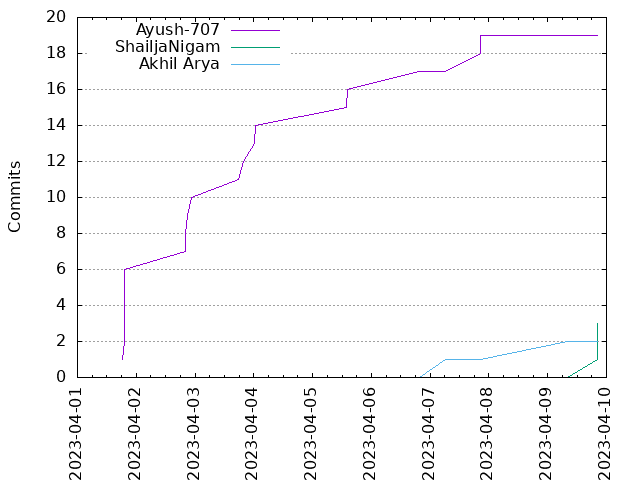
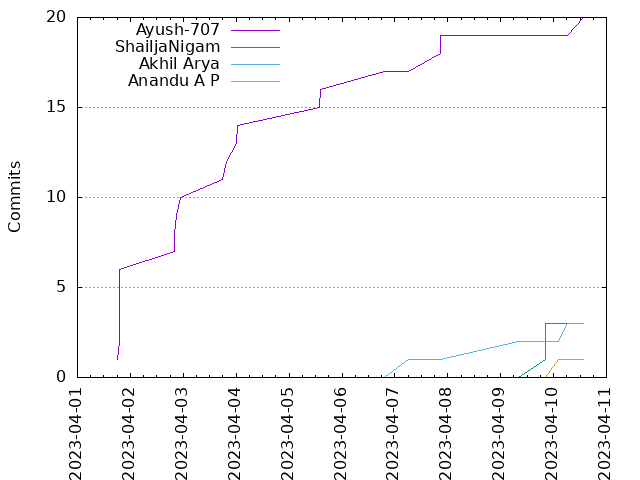
.

diff --git a/report/activity.html b/report/activity.html
@@ -22,27 +22,27 @@
 
 <h2 id="weekly_activity"><a href="#weekly_activity">Weekly activity</a></h2>
 
-<p>Last 32 weeks</p><table class="noborders"><tr><td style="text-align: center; vertical-align: bottom">0<div style="display: block; background-color: red; width: 20px; height: 1px"></div></td><td style="text-align: center; vertical-align: bottom">0<div style="display: block; background-color: red; width: 20px; height: 1px"></div></td><td style="text-align: center; vertical-align: bottom">0<div style="display: block; background-color: red; width: 20px; height: 1px"></div></td><td style="text-align: center; vertical-align: bottom">0<div style="display: block; background-color: red; width: 20px; height: 1px"></div></td><td style="text-align: center; vertical-align: bottom">0<div style="display: block; background-color: red; width: 20px; height: 1px"></div></td><td style="text-align: center; vertical-align: bottom">0<div style="display: block; background-color: red; width: 20px; height: 1px"></div></td><td style="text-align: center; vertical-align: bottom">0<div style="display: block; background-color: red; width: 20px; height: 1px"></div></td><td style="text-align: center; vertical-align: bottom">0<div style="display: block; background-color: red; width: 20px; height: 1px"></div></td><td style="text-align: center; vertical-align: bottom">0<div style="display: block; background-color: red; width: 20px; height: 1px"></div></td><td style="text-align: center; vertical-align: bottom">0<div style="display: block; background-color: red; width: 20px; height: 1px"></div></td><td style="text-align: center; vertical-align: bottom">0<div style="display: block; background-color: red; width: 20px; height: 1px"></div></td><td style="text-align: center; vertical-align: bottom">0<div style="display: block; background-color: red; width: 20px; height: 1px"></div></td><td style="text-align: center; vertical-align: bottom">0<div style="display: block; background-color: red; width: 20px; height: 1px"></div></td><td style="text-align: center; vertical-align: bottom">0<div style="display: block; background-color: red; width: 20px; height: 1px"></div></td><td style="text-align: center; vertical-align: bottom">0<div style="display: block; background-color: red; width: 20px; height: 1px"></div></td><td style="text-align: center; vertical-align: bottom">0<div style="display: block; background-color: red; width: 20px; height: 1px"></div></td><td style="text-align: center; vertical-align: bottom">0<div style="display: block; background-color: red; width: 20px; height: 1px"></div></td><td style="text-align: center; vertical-align: bottom">0<div style="display: block; background-color: red; width: 20px; height: 1px"></div></td><td style="text-align: center; vertical-align: bottom">0<div style="display: block; background-color: red; width: 20px; height: 1px"></div></td><td style="text-align: center; vertical-align: bottom">0<div style="display: block; background-color: red; width: 20px; height: 1px"></div></td><td style="text-align: center; vertical-align: bottom">0<div style="display: block; background-color: red; width: 20px; height: 1px"></div></td><td style="text-align: center; vertical-align: bottom">0<div style="display: block; background-color: red; width: 20px; height: 1px"></div></td><td style="text-align: center; vertical-align: bottom">0<div style="display: block; background-color: red; width: 20px; height: 1px"></div></td><td style="text-align: center; vertical-align: bottom">0<div style="display: block; background-color: red; width: 20px; height: 1px"></div></td><td style="text-align: center; vertical-align: bottom">0<div style="display: block; background-color: red; width: 20px; height: 1px"></div></td><td style="text-align: center; vertical-align: bottom">0<div style="display: block; background-color: red; width: 20px; height: 1px"></div></td><td style="text-align: center; vertical-align: bottom">0<div style="display: block; background-color: red; width: 20px; height: 1px"></div></td><td style="text-align: center; vertical-align: bottom">0<div style="display: block; background-color: red; width: 20px; height: 1px"></div></td><td style="text-align: center; vertical-align: bottom">0<div style="display: block; background-color: red; width: 20px; height: 1px"></div></td><td style="text-align: center; vertical-align: bottom">6<div style="display: block; background-color: red; width: 20px; height: 80px"></div></td><td style="text-align: center; vertical-align: bottom">15<div style="display: block; background-color: red; width: 20px; height: 200px"></div></td><td style="text-align: center; vertical-align: bottom">3<div style="display: block; background-color: red; width: 20px; height: 40px"></div></td></tr><tr><td>32</td><td>31</td><td>30</td><td>29</td><td>28</td><td>27</td><td>26</td><td>25</td><td>24</td><td>23</td><td>22</td><td>21</td><td>20</td><td>19</td><td>18</td><td>17</td><td>16</td><td>15</td><td>14</td><td>13</td><td>12</td><td>11</td><td>10</td><td>9</td><td>8</td><td>7</td><td>6</td><td>5</td><td>4</td><td>3</td><td>2</td><td>1</td></tr></table>
+<p>Last 32 weeks</p><table class="noborders"><tr><td style="text-align: center; vertical-align: bottom">0<div style="display: block; background-color: red; width: 20px; height: 1px"></div></td><td style="text-align: center; vertical-align: bottom">0<div style="display: block; background-color: red; width: 20px; height: 1px"></div></td><td style="text-align: center; vertical-align: bottom">0<div style="display: block; background-color: red; width: 20px; height: 1px"></div></td><td style="text-align: center; vertical-align: bottom">0<div style="display: block; background-color: red; width: 20px; height: 1px"></div></td><td style="text-align: center; vertical-align: bottom">0<div style="display: block; background-color: red; width: 20px; height: 1px"></div></td><td style="text-align: center; vertical-align: bottom">0<div style="display: block; background-color: red; width: 20px; height: 1px"></div></td><td style="text-align: center; vertical-align: bottom">0<div style="display: block; background-color: red; width: 20px; height: 1px"></div></td><td style="text-align: center; vertical-align: bottom">0<div style="display: block; background-color: red; width: 20px; height: 1px"></div></td><td style="text-align: center; vertical-align: bottom">0<div style="display: block; background-color: red; width: 20px; height: 1px"></div></td><td style="text-align: center; vertical-align: bottom">0<div style="display: block; background-color: red; width: 20px; height: 1px"></div></td><td style="text-align: center; vertical-align: bottom">0<div style="display: block; background-color: red; width: 20px; height: 1px"></div></td><td style="text-align: center; vertical-align: bottom">0<div style="display: block; background-color: red; width: 20px; height: 1px"></div></td><td style="text-align: center; vertical-align: bottom">0<div style="display: block; background-color: red; width: 20px; height: 1px"></div></td><td style="text-align: center; vertical-align: bottom">0<div style="display: block; background-color: red; width: 20px; height: 1px"></div></td><td style="text-align: center; vertical-align: bottom">0<div style="display: block; background-color: red; width: 20px; height: 1px"></div></td><td style="text-align: center; vertical-align: bottom">0<div style="display: block; background-color: red; width: 20px; height: 1px"></div></td><td style="text-align: center; vertical-align: bottom">0<div style="display: block; background-color: red; width: 20px; height: 1px"></div></td><td style="text-align: center; vertical-align: bottom">0<div style="display: block; background-color: red; width: 20px; height: 1px"></div></td><td style="text-align: center; vertical-align: bottom">0<div style="display: block; background-color: red; width: 20px; height: 1px"></div></td><td style="text-align: center; vertical-align: bottom">0<div style="display: block; background-color: red; width: 20px; height: 1px"></div></td><td style="text-align: center; vertical-align: bottom">0<div style="display: block; background-color: red; width: 20px; height: 1px"></div></td><td style="text-align: center; vertical-align: bottom">0<div style="display: block; background-color: red; width: 20px; height: 1px"></div></td><td style="text-align: center; vertical-align: bottom">0<div style="display: block; background-color: red; width: 20px; height: 1px"></div></td><td style="text-align: center; vertical-align: bottom">0<div style="display: block; background-color: red; width: 20px; height: 1px"></div></td><td style="text-align: center; vertical-align: bottom">0<div style="display: block; background-color: red; width: 20px; height: 1px"></div></td><td style="text-align: center; vertical-align: bottom">0<div style="display: block; background-color: red; width: 20px; height: 1px"></div></td><td style="text-align: center; vertical-align: bottom">0<div style="display: block; background-color: red; width: 20px; height: 1px"></div></td><td style="text-align: center; vertical-align: bottom">0<div style="display: block; background-color: red; width: 20px; height: 1px"></div></td><td style="text-align: center; vertical-align: bottom">0<div style="display: block; background-color: red; width: 20px; height: 1px"></div></td><td style="text-align: center; vertical-align: bottom">6<div style="display: block; background-color: red; width: 20px; height: 80px"></div></td><td style="text-align: center; vertical-align: bottom">15<div style="display: block; background-color: red; width: 20px; height: 200px"></div></td><td style="text-align: center; vertical-align: bottom">6<div style="display: block; background-color: red; width: 20px; height: 80px"></div></td></tr><tr><td>32</td><td>31</td><td>30</td><td>29</td><td>28</td><td>27</td><td>26</td><td>25</td><td>24</td><td>23</td><td>22</td><td>21</td><td>20</td><td>19</td><td>18</td><td>17</td><td>16</td><td>15</td><td>14</td><td>13</td><td>12</td><td>11</td><td>10</td><td>9</td><td>8</td><td>7</td><td>6</td><td>5</td><td>4</td><td>3</td><td>2</td><td>1</td></tr></table>
 <h2 id="hour_of_day"><a href="#hour_of_day">Hour of Day</a></h2>
 
 <table><tr><th>Hour</th><th>0</th><th>1</th><th>2</th><th>3</th><th>4</th><th>5</th><th>6</th><th>7</th><th>8</th><th>9</th><th>10</th><th>11</th><th>12</th><th>13</th><th>14</th><th>15</th><th>16</th><th>17</th><th>18</th><th>19</th><th>20</th><th>21</th><th>22</th><th>23</th></tr>
-<tr><th>Commits</th><td style="background-color: rgb(255, 0, 0)">6</td><td style="background-color: rgb(255, 0, 0)">6</td><td style="background-color: rgb(191, 0, 0)">3</td><td>0</td><td style="background-color: rgb(148, 0, 0)">1</td><td style="background-color: rgb(169, 0, 0)">2</td><td>0</td><td>0</td><td>0</td><td>0</td><td>0</td><td style="background-color: rgb(148, 0, 0)">1</td><td>0</td><td style="background-color: rgb(148, 0, 0)">1</td><td>0</td><td>0</td><td>0</td><td>0</td><td>0</td><td style="background-color: rgb(169, 0, 0)">2</td><td>0</td><td>0</td><td>0</td><td style="background-color: rgb(169, 0, 0)">2</td></tr>
-<tr><th>%</th><td style="background-color: rgb(255, 0, 0)">25.00</td><td style="background-color: rgb(255, 0, 0)">25.00</td><td style="background-color: rgb(191, 0, 0)">12.50</td><td>0.00</td><td style="background-color: rgb(148, 0, 0)">4.17</td><td style="background-color: rgb(169, 0, 0)">8.33</td><td>0.00</td><td>0.00</td><td>0.00</td><td>0.00</td><td>0.00</td><td style="background-color: rgb(148, 0, 0)">4.17</td><td>0.00</td><td style="background-color: rgb(148, 0, 0)">4.17</td><td>0.00</td><td>0.00</td><td>0.00</td><td>0.00</td><td>0.00</td><td style="background-color: rgb(169, 0, 0)">8.33</td><td>0.00</td><td>0.00</td><td>0.00</td><td style="background-color: rgb(169, 0, 0)">8.33</td></tr></table><img src="hour_of_day.png" alt="Hour of Day">
+<tr><th>Commits</th><td style="background-color: rgb(255, 0, 0)">6</td><td style="background-color: rgb(255, 0, 0)">6</td><td style="background-color: rgb(191, 0, 0)">3</td><td>0</td><td style="background-color: rgb(148, 0, 0)">1</td><td style="background-color: rgb(169, 0, 0)">2</td><td>0</td><td style="background-color: rgb(148, 0, 0)">1</td><td>0</td><td>0</td><td>0</td><td style="background-color: rgb(169, 0, 0)">2</td><td>0</td><td style="background-color: rgb(148, 0, 0)">1</td><td>0</td><td>0</td><td>0</td><td>0</td><td style="background-color: rgb(148, 0, 0)">1</td><td style="background-color: rgb(169, 0, 0)">2</td><td>0</td><td>0</td><td>0</td><td style="background-color: rgb(169, 0, 0)">2</td></tr>
+<tr><th>%</th><td style="background-color: rgb(255, 0, 0)">22.22</td><td style="background-color: rgb(255, 0, 0)">22.22</td><td style="background-color: rgb(191, 0, 0)">11.11</td><td>0.00</td><td style="background-color: rgb(148, 0, 0)">3.70</td><td style="background-color: rgb(169, 0, 0)">7.41</td><td>0.00</td><td style="background-color: rgb(148, 0, 0)">3.70</td><td>0.00</td><td>0.00</td><td>0.00</td><td style="background-color: rgb(169, 0, 0)">7.41</td><td>0.00</td><td style="background-color: rgb(148, 0, 0)">3.70</td><td>0.00</td><td>0.00</td><td>0.00</td><td>0.00</td><td style="background-color: rgb(148, 0, 0)">3.70</td><td style="background-color: rgb(169, 0, 0)">7.41</td><td>0.00</td><td>0.00</td><td>0.00</td><td style="background-color: rgb(169, 0, 0)">7.41</td></tr></table><img src="hour_of_day.png" alt="Hour of Day">
 <h2 id="day_of_week"><a href="#day_of_week">Day of Week</a></h2>
 
-<div class="vtable"><table><tr><th>Day</th><th>Total (%)</th></tr><tr><th>Mon</th><td>8 (33.33%)</td></tr><tr><th>Tue</th><td>3 (12.50%)</td></tr><tr><th>Wed</th><td>2 (8.33%)</td></tr><tr><th>Thu</th><td>0</td></tr><tr><th>Fri</th><td>2 (8.33%)</td></tr><tr><th>Sat</th><td>3 (12.50%)</td></tr><tr><th>Sun</th><td>6 (25.00%)</td></tr></table></div><img src="day_of_week.png" alt="Day of Week">
+<div class="vtable"><table><tr><th>Day</th><th>Total (%)</th></tr><tr><th>Mon</th><td>11 (40.74%)</td></tr><tr><th>Tue</th><td>3 (11.11%)</td></tr><tr><th>Wed</th><td>2 (7.41%)</td></tr><tr><th>Thu</th><td>0</td></tr><tr><th>Fri</th><td>2 (7.41%)</td></tr><tr><th>Sat</th><td>3 (11.11%)</td></tr><tr><th>Sun</th><td>6 (22.22%)</td></tr></table></div><img src="day_of_week.png" alt="Day of Week">
 <h2 id="hour_of_week"><a href="#hour_of_week">Hour of Week</a></h2>
 
-<table><tr><th>Weekday</th><th>0</th><th>1</th><th>2</th><th>3</th><th>4</th><th>5</th><th>6</th><th>7</th><th>8</th><th>9</th><th>10</th><th>11</th><th>12</th><th>13</th><th>14</th><th>15</th><th>16</th><th>17</th><th>18</th><th>19</th><th>20</th><th>21</th><th>22</th><th>23</th></tr><tr><th>Mon</th><td></td><td style="background-color: rgb(255, 0, 0)">5</td><td style="background-color: rgb(152, 0, 0)">1</td><td></td><td style="background-color: rgb(152, 0, 0)">1</td><td></td><td></td><td></td><td></td><td></td><td></td><td></td><td></td><td></td><td></td><td></td><td></td><td></td><td></td><td></td><td></td><td></td><td></td><td style="background-color: rgb(152, 0, 0)">1</td></tr><tr><th>Tue</th><td></td><td style="background-color: rgb(152, 0, 0)">1</td><td></td><td></td><td></td><td style="background-color: rgb(178, 0, 0)">2</td><td></td><td></td><td></td><td></td><td></td><td></td><td></td><td></td><td></td><td></td><td></td><td></td><td></td><td></td><td></td><td></td><td></td><td></td></tr><tr><th>Wed</th><td></td><td></td><td></td><td></td><td></td><td></td><td></td><td></td><td></td><td></td><td></td><td></td><td></td><td></td><td></td><td></td><td></td><td></td><td></td><td style="background-color: rgb(178, 0, 0)">2</td><td></td><td></td><td></td><td></td></tr><tr><th>Thu</th><td></td><td></td><td></td><td></td><td></td><td></td><td></td><td></td><td></td><td></td><td></td><td></td><td></td><td></td><td></td><td></td><td></td><td></td><td></td><td></td><td></td><td></td><td></td><td></td></tr><tr><th>Fri</th><td style="background-color: rgb(152, 0, 0)">1</td><td></td><td></td><td></td><td></td><td></td><td></td><td></td><td></td><td></td><td></td><td style="background-color: rgb(152, 0, 0)">1</td><td></td><td></td><td></td><td></td><td></td><td></td><td></td><td></td><td></td><td></td><td></td><td></td></tr><tr><th>Sat</th><td></td><td></td><td style="background-color: rgb(178, 0, 0)">2</td><td></td><td></td><td></td><td></td><td></td><td></td><td></td><td></td><td></td><td></td><td></td><td></td><td></td><td></td><td></td><td></td><td></td><td></td><td></td><td></td><td style="background-color: rgb(152, 0, 0)">1</td></tr><tr><th>Sun</th><td style="background-color: rgb(255, 0, 0)">5</td><td></td><td></td><td></td><td></td><td></td><td></td><td></td><td></td><td></td><td></td><td></td><td></td><td style="background-color: rgb(152, 0, 0)">1</td><td></td><td></td><td></td><td></td><td></td><td></td><td></td><td></td><td></td><td></td></tr></table>
+<table><tr><th>Weekday</th><th>0</th><th>1</th><th>2</th><th>3</th><th>4</th><th>5</th><th>6</th><th>7</th><th>8</th><th>9</th><th>10</th><th>11</th><th>12</th><th>13</th><th>14</th><th>15</th><th>16</th><th>17</th><th>18</th><th>19</th><th>20</th><th>21</th><th>22</th><th>23</th></tr><tr><th>Mon</th><td></td><td style="background-color: rgb(255, 0, 0)">5</td><td style="background-color: rgb(152, 0, 0)">1</td><td></td><td style="background-color: rgb(152, 0, 0)">1</td><td></td><td></td><td style="background-color: rgb(152, 0, 0)">1</td><td></td><td></td><td></td><td style="background-color: rgb(152, 0, 0)">1</td><td></td><td></td><td></td><td></td><td></td><td></td><td style="background-color: rgb(152, 0, 0)">1</td><td></td><td></td><td></td><td></td><td style="background-color: rgb(152, 0, 0)">1</td></tr><tr><th>Tue</th><td></td><td style="background-color: rgb(152, 0, 0)">1</td><td></td><td></td><td></td><td style="background-color: rgb(178, 0, 0)">2</td><td></td><td></td><td></td><td></td><td></td><td></td><td></td><td></td><td></td><td></td><td></td><td></td><td></td><td></td><td></td><td></td><td></td><td></td></tr><tr><th>Wed</th><td></td><td></td><td></td><td></td><td></td><td></td><td></td><td></td><td></td><td></td><td></td><td></td><td></td><td></td><td></td><td></td><td></td><td></td><td></td><td style="background-color: rgb(178, 0, 0)">2</td><td></td><td></td><td></td><td></td></tr><tr><th>Thu</th><td></td><td></td><td></td><td></td><td></td><td></td><td></td><td></td><td></td><td></td><td></td><td></td><td></td><td></td><td></td><td></td><td></td><td></td><td></td><td></td><td></td><td></td><td></td><td></td></tr><tr><th>Fri</th><td style="background-color: rgb(152, 0, 0)">1</td><td></td><td></td><td></td><td></td><td></td><td></td><td></td><td></td><td></td><td></td><td style="background-color: rgb(152, 0, 0)">1</td><td></td><td></td><td></td><td></td><td></td><td></td><td></td><td></td><td></td><td></td><td></td><td></td></tr><tr><th>Sat</th><td></td><td></td><td style="background-color: rgb(178, 0, 0)">2</td><td></td><td></td><td></td><td></td><td></td><td></td><td></td><td></td><td></td><td></td><td></td><td></td><td></td><td></td><td></td><td></td><td></td><td></td><td></td><td></td><td style="background-color: rgb(152, 0, 0)">1</td></tr><tr><th>Sun</th><td style="background-color: rgb(255, 0, 0)">5</td><td></td><td></td><td></td><td></td><td></td><td></td><td></td><td></td><td></td><td></td><td></td><td></td><td style="background-color: rgb(152, 0, 0)">1</td><td></td><td></td><td></td><td></td><td></td><td></td><td></td><td></td><td></td><td></td></tr></table>
 <h2 id="month_of_year"><a href="#month_of_year">Month of Year</a></h2>
 
-<div class="vtable"><table><tr><th>Month</th><th>Commits (%)</th></tr><tr><td>1</td><td>0 (0.00 %)</td></tr><tr><td>2</td><td>0 (0.00 %)</td></tr><tr><td>3</td><td>0 (0.00 %)</td></tr><tr><td>4</td><td>24 (100.00 %)</td></tr><tr><td>5</td><td>0 (0.00 %)</td></tr><tr><td>6</td><td>0 (0.00 %)</td></tr><tr><td>7</td><td>0 (0.00 %)</td></tr><tr><td>8</td><td>0 (0.00 %)</td></tr><tr><td>9</td><td>0 (0.00 %)</td></tr><tr><td>10</td><td>0 (0.00 %)</td></tr><tr><td>11</td><td>0 (0.00 %)</td></tr><tr><td>12</td><td>0 (0.00 %)</td></tr></table></div><img src="month_of_year.png" alt="Month of Year">
+<div class="vtable"><table><tr><th>Month</th><th>Commits (%)</th></tr><tr><td>1</td><td>0 (0.00 %)</td></tr><tr><td>2</td><td>0 (0.00 %)</td></tr><tr><td>3</td><td>0 (0.00 %)</td></tr><tr><td>4</td><td>27 (100.00 %)</td></tr><tr><td>5</td><td>0 (0.00 %)</td></tr><tr><td>6</td><td>0 (0.00 %)</td></tr><tr><td>7</td><td>0 (0.00 %)</td></tr><tr><td>8</td><td>0 (0.00 %)</td></tr><tr><td>9</td><td>0 (0.00 %)</td></tr><tr><td>10</td><td>0 (0.00 %)</td></tr><tr><td>11</td><td>0 (0.00 %)</td></tr><tr><td>12</td><td>0 (0.00 %)</td></tr></table></div><img src="month_of_year.png" alt="Month of Year">
 <h2 id="commits_by_year/month"><a href="#commits_by_year/month">Commits by year/month</a></h2>
 
-<div class="vtable"><table><tr><th>Month</th><th>Commits</th><th>Lines added</th><th>Lines removed</th></tr><tr><td>2023-04</td><td>24</td><td>20286</td><td>341</td></tr></table></div><img src="commits_by_year_month.png" alt="Commits by year/month">
+<div class="vtable"><table><tr><th>Month</th><th>Commits</th><th>Lines added</th><th>Lines removed</th></tr><tr><td>2023-04</td><td>27</td><td>22769</td><td>1659</td></tr></table></div><img src="commits_by_year_month.png" alt="Commits by year/month">
 <h2 id="commits_by_year"><a href="#commits_by_year">Commits by Year</a></h2>
 
-<div class="vtable"><table><tr><th>Year</th><th>Commits (% of all)</th><th>Lines added</th><th>Lines removed</th></tr><tr><td>2023</td><td>24 (100.00%)</td><td>20286</td><td>341</td></tr></table></div><img src="commits_by_year.png" alt="Commits by Year">
+<div class="vtable"><table><tr><th>Year</th><th>Commits (% of all)</th><th>Lines added</th><th>Lines removed</th></tr><tr><td>2023</td><td>27 (100.00%)</td><td>22769</td><td>1659</td></tr></table></div><img src="commits_by_year.png" alt="Commits by Year">
 <h2 id="commits_by_timezone"><a href="#commits_by_timezone">Commits by Timezone</a></h2>
 
-<table><tr><th>Timezone</th><th>Commits</th></tr><tr><th>+0530</th><td style="background-color: rgb(255, 0, 0)">24</td></tr></table></body></html>
+<table><tr><th>Timezone</th><th>Commits</th></tr><tr><th>+0530</th><td style="background-color: rgb(255, 0, 0)">27</td></tr></table></body></html>

diff --git a/report/authors.html b/report/authors.html
@@ -22,7 +22,7 @@
 
 <h2 id="list_of_authors"><a href="#list_of_authors">List of Authors</a></h2>
 
-<table class="authors sortable" id="authors"><tr><th>Author</th><th>Commits (%)</th><th>+ lines</th><th>- lines</th><th>First commit</th><th>Last commit</th><th class="unsortable">Age</th><th>Active days</th><th># by commits</th></tr><tr><td>Ayush-707</td><td>19 (79.17%)</td><td>20006</td><td>328</td><td>2023-04-01</td><td>2023-04-08</td><td>6 days, 2:27:17</td><td>7</td><td>1</td></tr><tr><td>ShailjaNigam</td><td>3 (12.50%)</td><td>222</td><td>16</td><td>2023-04-10</td><td>2023-04-10</td><td>0:01:50</td><td>1</td><td>2</td></tr><tr><td>Akhil Arya</td><td>2 (8.33%)</td><td>63</td><td>2</td><td>2023-04-07</td><td>2023-04-09</td><td>2 days, 1:40:41</td><td>2</td><td>3</td></tr></table>
+<table class="authors sortable" id="authors"><tr><th>Author</th><th>Commits (%)</th><th>+ lines</th><th>- lines</th><th>First commit</th><th>Last commit</th><th class="unsortable">Age</th><th>Active days</th><th># by commits</th></tr><tr><td>Ayush-707</td><td>20 (74.07%)</td><td>22232</td><td>1636</td><td>2023-04-01</td><td>2023-04-10</td><td>8 days, 19:07:03</td><td>8</td><td>1</td></tr><tr><td>ShailjaNigam</td><td>3 (11.11%)</td><td>222</td><td>16</td><td>2023-04-10</td><td>2023-04-10</td><td>0:01:50</td><td>1</td><td>2</td></tr><tr><td>Akhil Arya</td><td>3 (11.11%)</td><td>82</td><td>9</td><td>2023-04-07</td><td>2023-04-10</td><td>2 days, 23:56:11</td><td>3</td><td>3</td></tr><tr><td>Anandu A P</td><td>1 (3.70%)</td><td>238</td><td>3</td><td>2023-04-10</td><td>2023-04-10</td><td>0:00:00</td><td>1</td><td>4</td></tr></table>
 <h2 id="cumulated_added_lines_of_code_per_author"><a href="#cumulated_added_lines_of_code_per_author">Cumulated Added Lines of Code per Author</a></h2>
 
 <img src="lines_of_code_by_author.png" alt="Lines of code per Author">
@@ -31,10 +31,10 @@
 <img src="commits_by_author.png" alt="Commits per Author">
 <h2 id="author_of_month"><a href="#author_of_month">Author of Month</a></h2>
 
-<table class="sortable" id="aom"><tr><th>Month</th><th>Author</th><th>Commits (%)</th><th class="unsortable">Next top 5</th><th>Number of authors</th></tr><tr><td>2023-04</td><td>Ayush-707</td><td>19 (79.17% of 24)</td><td>ShailjaNigam, Akhil Arya</td><td>3</td></tr></table>
+<table class="sortable" id="aom"><tr><th>Month</th><th>Author</th><th>Commits (%)</th><th class="unsortable">Next top 5</th><th>Number of authors</th></tr><tr><td>2023-04</td><td>Ayush-707</td><td>20 (74.07% of 27)</td><td>ShailjaNigam, Akhil Arya, Anandu A P</td><td>4</td></tr></table>
 <h2 id="author_of_year"><a href="#author_of_year">Author of Year</a></h2>
 
-<table class="sortable" id="aoy"><tr><th>Year</th><th>Author</th><th>Commits (%)</th><th class="unsortable">Next top 5</th><th>Number of authors</th></tr><tr><td>2023</td><td>Ayush-707</td><td>19 (79.17% of 24)</td><td>ShailjaNigam, Akhil Arya</td><td>3</td></tr></table>
+<table class="sortable" id="aoy"><tr><th>Year</th><th>Author</th><th>Commits (%)</th><th class="unsortable">Next top 5</th><th>Number of authors</th></tr><tr><td>2023</td><td>Ayush-707</td><td>20 (74.07% of 27)</td><td>ShailjaNigam, Akhil Arya, Anandu A P</td><td>4</td></tr></table>
 <h2 id="commits_by_domains"><a href="#commits_by_domains">Commits by Domains</a></h2>
 
-<div class="vtable"><table><tr><th>Domains</th><th>Total (%)</th></tr><tr><th>gmail.com</th><td>16 (66.67%)</td></tr><tr><th>users.noreply.github.com</th><td>8 (33.33%)</td></tr></table></div><img src="domains.png" alt="Commits by Domains"></body></html>
+<div class="vtable"><table><tr><th>Domains</th><th>Total (%)</th></tr><tr><th>gmail.com</th><td>19 (70.37%)</td></tr><tr><th>users.noreply.github.com</th><td>8 (29.63%)</td></tr></table></div><img src="domains.png" alt="Commits by Domains"></body></html>

diff --git a/report/files.html b/report/files.html
@@ -20,11 +20,11 @@
 </ul>
 </div>
 <dl>
-<dt>Total files</dt><dd>45</dd><dt>Total lines</dt><dd>19945</dd><dt>Average file size</dt><dd>20074.60 bytes</dd></dl>
+<dt>Total files</dt><dd>87</dd><dt>Total lines</dt><dd>21110</dd><dt>Average file size</dt><dd>11377.56 bytes</dd></dl>
 
 <h2 id="file_count_by_date"><a href="#file_count_by_date">File count by date</a></h2>
 
 <img src="files_by_date.png" alt="Files by Date">
 <h2 id="extensions"><a href="#extensions">Extensions</a></h2>
 
-<table class="sortable" id="ext"><tr><th>Extension</th><th>Files (%)</th><th>Lines (%)</th><th>Lines/file</th></tr><tr><td></td><td>4 (8.89%)</td><td>23 (0.12%)</td><td>5</td></tr><tr><td>css</td><td>3 (6.67%)</td><td>89 (0.45%)</td><td>29</td></tr><tr><td>html</td><td>1 (2.22%)</td><td>43 (0.22%)</td><td>43</td></tr><tr><td>ico</td><td>1 (2.22%)</td><td>12 (0.06%)</td><td>12</td></tr><tr><td>jpeg</td><td>1 (2.22%)</td><td>6 (0.03%)</td><td>6</td></tr><tr><td>jpg</td><td>1 (2.22%)</td><td>212 (1.06%)</td><td>212</td></tr><tr><td>js</td><td>22 (48.89%)</td><td>954 (4.78%)</td><td>43</td></tr><tr><td>json</td><td>5 (11.11%)</td><td>18699 (93.75%)</td><td>3739</td></tr><tr><td>md</td><td>2 (4.44%)</td><td>120 (0.60%)</td><td>60</td></tr><tr><td>png</td><td>2 (4.44%)</td><td>61 (0.31%)</td><td>30</td></tr><tr><td>txt</td><td>1 (2.22%)</td><td>3 (0.02%)</td><td>3</td></tr><tr><td>webp</td><td>2 (4.44%)</td><td>239 (1.20%)</td><td>119</td></tr></table></body></html>
+<table class="sortable" id="ext"><tr><th>Extension</th><th>Files (%)</th><th>Lines (%)</th><th>Lines/file</th></tr><tr><td></td><td>4 (4.60%)</td><td>25 (0.12%)</td><td>6</td></tr><tr><td>cache</td><td>1 (1.15%)</td><td>9 (0.04%)</td><td>9</td></tr><tr><td>css</td><td>4 (4.60%)</td><td>234 (1.11%)</td><td>58</td></tr><tr><td>dat</td><td>10 (11.49%)</td><td>130 (0.62%)</td><td>13</td></tr><tr><td>gif</td><td>3 (3.45%)</td><td>6 (0.03%)</td><td>2</td></tr><tr><td>html</td><td>7 (8.05%)</td><td>227 (1.08%)</td><td>32</td></tr><tr><td>ico</td><td>1 (1.15%)</td><td>12 (0.06%)</td><td>12</td></tr><tr><td>jpeg</td><td>1 (1.15%)</td><td>6 (0.03%)</td><td>6</td></tr><tr><td>jpg</td><td>1 (1.15%)</td><td>212 (1.00%)</td><td>212</td></tr><tr><td>js</td><td>23 (26.44%)</td><td>1526 (7.23%)</td><td>66</td></tr><tr><td>json</td><td>5 (5.75%)</td><td>18699 (88.58%)</td><td>3739</td></tr><tr><td>md</td><td>2 (2.30%)</td><td>120 (0.57%)</td><td>60</td></tr><tr><td>plot</td><td>10 (11.49%)</td><td>127 (0.60%)</td><td>12</td></tr><tr><td>png</td><td>12 (13.79%)</td><td>276 (1.31%)</td><td>23</td></tr><tr><td>txt</td><td>1 (1.15%)</td><td>3 (0.01%)</td><td>3</td></tr><tr><td>webp</td><td>2 (2.30%)</td><td>239 (1.13%)</td><td>119</td></tr></table></body></html>

diff --git a/report/index.html b/report/index.html
@@ -19,5 +19,5 @@
 <li><a href="tags.html">Tags</a></li>
 </ul>
 </div>
-<dl><dt>Project name</dt><dd>Software Engineering</dd><dt>Generated</dt><dd>2023-04-10 18:43:17 (in 5 seconds)</dd><dt>Generator</dt><dd><a href="http://gitstats.sourceforge.net/">GitStats</a> (version ), git version 2.34.1, gnuplot 5.4 patchlevel 2</dd><dt>Report Period</dt><dd>2023-04-01 23:47:43 to 2023-04-10 01:54:26</dd><dt>Age</dt><dd>9 days, 9 active days (100.00%)</dd><dt>Total Files</dt><dd>45</dd><dt>Total Lines of Code</dt><dd>19945 (20286 added, 341 removed)</dd><dt>Total Commits</dt><dd>24 (average 2.7 commits per active day, 2.7 per all days)</dd><dt>Authors</dt><dd>3 (average 8.0 commits per author)</dd></dl></body>
+<dl><dt>Project name</dt><dd>Software Engineering</dd><dt>Generated</dt><dd>2023-04-10 19:30:25 (in 6 seconds)</dd><dt>Generator</dt><dd><a href="http://gitstats.sourceforge.net/">GitStats</a> (version ), git version 2.34.1, gnuplot 5.4 patchlevel 2</dd><dt>Report Period</dt><dd>2023-04-01 23:47:43 to 2023-04-10 18:54:46</dd><dt>Age</dt><dd>10 days, 9 active days (90.00%)</dd><dt>Total Files</dt><dd>87</dd><dt>Total Lines of Code</dt><dd>21110 (22769 added, 1659 removed)</dd><dt>Total Commits</dt><dd>27 (average 3.0 commits per active day, 2.7 per all days)</dd><dt>Authors</dt><dd>4 (average 6.8 commits per author)</dd></dl></body>
 </html>

diff --git a/report/lines.html b/report/lines.html
@@ -20,7 +20,7 @@
 </ul>
 </div>
 <dl>
-<dt>Total lines</dt><dd>19945</dd></dl>
+<dt>Total lines</dt><dd>21110</dd></dl>
 
 <h2 id="lines_of_code"><a href="#lines_of_code">Lines of Code</a></h2>
 
